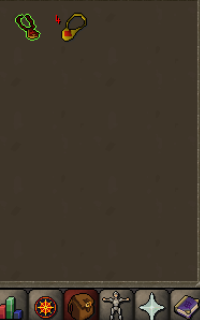
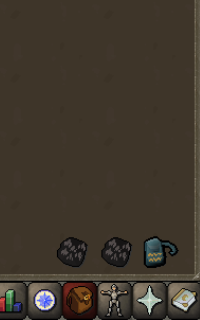
Add logout + new find_and_click function

Changed region(s): [[0.0, 0.0, 1.0, 1.0], [0.27, 0.0312, 0.45, 0.1562], [0.06, 0.0312, 0.21, 0.125]]

diff --git a/functions.py b/functions.py
@@ -156,7 +156,7 @@ def safe_open(image, png):
         image = cv2.imread('images/' + png)
         print(f'Sleeping until image is created')
         time.sleep(2)
-        return image
+    return image
 
 def screen_front(runelite):
     print('Starting screen_front')
@@ -486,15 +486,15 @@ def make_enabled(make='make_craft.png'):
     return Image_count(make, threshold=0.95)
 
 
-def image_Rec_clicker(image, event, iheight=5, iwidth=2, threshold=0.8, clicker='left', ispace=25, playarea=True,
+def image_Rec_clicker(image, object, iheight=5, iwidth=2, threshold=0.8, clicker='left', ispace=25, playarea=True,
                       fast=False):
     print('Starting image_Rec_clicker')
     global icoord
     global iflag
     # Update images, convert to gray, match template, apply threshold
-    img_rgb = cv2.imread('images/inventshot.png')
+    img_rgb = cv2.imread('images/' + image)
     img_gray = cv2.cvtColor(img_rgb, cv2.COLOR_BGR2GRAY)
-    template = cv2.imread('images/' + image, 0)
+    template = cv2.imread('images/' + object, 0)
     w, h = template.shape[::-1]
     pt = None
     res = cv2.matchTemplate(img_gray, template, cv2.TM_CCOEFF_NORMED)
@@ -519,8 +519,8 @@ def image_Rec_clicker(image, event, iheight=5, iwidth=2, threshold=0.8, clicker=
             cropy = 457
             iflag = True
             # i vars are constants todo add double randomness
-            x = random.randrange(iwidth, iwidth + ispace) + cropx
-            y = random.randrange(iheight, iheight + ispace) + cropy
+            x = random.randrange(iwidth, iwidth + ispace) # + cropx
+            y = random.randrange(iheight, iheight + ispace) # + cropy
             icoord = pt[0] + iheight + x
             icoord = (icoord, pt[1] + iwidth + y)
             b = super_random_breaks(.03, .12, .14, .25)
@@ -670,6 +670,7 @@ def image_count(object, image, threshold=0.7):  # counts how many objects in ima
     img_gray = cv2.cvtColor(img_rgb, cv2.COLOR_BGR2GRAY)
     template = cv2.imread('images/' + object, 0)
     safe_open(template, object)
+    print(f'template is {template}')
     w, h = template.shape[::-1]
     res = cv2.matchTemplate(img_gray, template, cv2.TM_CCOEFF_NORMED)
     # print(f'res is {res}')
@@ -719,6 +720,58 @@ def super_random_breaks(a, b, c, d):
     max1 = random.uniform(c, d) # e.g. 5-7
     wait = random.uniform(min1, max1) # e.g 2, 6
     return wait
+
+def find_and_click(image='screenshot.png', object='item.png', x1=0, x2=900, y1=0, y2=900,
+                   iheight=4, iwidth=4, threshold=0.8, clicker='left', ispace=10, num_objects = 1):
+    counter = 0
+    screen_Image(left=x1, right=x2, top=y1, bottom=y2, name=image)
+    print('Starting image_Rec_clicker')
+    global icoord
+    global iflag
+    # Update images, convert to gray, match template, apply threshold
+    img_rgb = cv2.imread('images/' + image)
+    img_gray = cv2.cvtColor(img_rgb, cv2.COLOR_BGR2GRAY)
+    template = cv2.imread('images/' + object, 0)
+    w, h = template.shape[::-1]
+    pt = None
+    res = cv2.matchTemplate(img_gray, template, cv2.TM_CCOEFF_NORMED)
+    loc = np.where(res >= threshold)
+    # print(f'res is: {res}')
+    iflag = False
+
+    # for image where template match % > threshold
+    for pt in zip(*loc[::-1]):
+        # print('Starting our for loop in zip now!')
+        # print(f'Current pt is {pt}')
+        # resizeImage()  # update screenresize/text images
+        # invent_crop()  # update inventory.png
+        # confirm how below draws rectangles
+        cv2.rectangle(img_rgb, pt, (pt[0] + w, pt[1] + h), (0, 0, 255), 2)
+        if pt is None:
+            iflag = False
+            print('pt is None so iflag is False')
+        else:
+            # useless?
+            cropx = 620
+            cropy = 457
+            iflag = True
+            # i vars are constants
+            x = random.randrange(iwidth, iwidth + ispace)  # + cropx
+            y = random.randrange(iheight, iheight + ispace)  # + cropy
+            icoord = pt[0] + x
+            icoord = (icoord, pt[1] + y ) # + y in the ()
+            b = super_random_breaks(.03, .12, .14, .25)
+            print('Trying to move to coord in rec_clicker!')
+            pyautogui.moveTo(icoord, duration=b)
+            b = super_random_breaks(.03, .12, .14, .25)
+            print('Trying to click coord!')
+            pyautogui.click(icoord, duration=b, button=clicker)
+            counter += 1
+            if counter >= num_objects:
+                return
+    print('Ending image_Rec_clicker')
+    return iflag
+
 
 
 

diff --git a/magic.py b/magic.py
@@ -221,10 +221,15 @@ def high_alch_loop(vol=1200, expensive=False, charge=False):
 
 
 if __name__ == "__main__":
-    log = login.login('alt3login',house_tab=True)
-    if log:
-        high_alch_loop(6000, expensive=False, charge=False)
-    else:
-        print('Failed to login')
-        pass
+    while True:
+        log = login.login('alt3login',house_tab=True)
+        if log:
+            high_alch_loop(6000, expensive=False, charge=False)
+        else:
+            print('Failed to login')
+            pass
+        sleep_mins = 60
+        s_to_m = sleep_mins * 60
+        # time.sleep(random.uniform(s_to_m, s_to_m + 3600))
+        time.sleep(10)
     # superheat_items(100, 1) #100 items iron

diff --git a/login.py b/login.py
@@ -46,5 +46,10 @@ def login(account:str,house_tab=False):
 
     print(count)
 
+def logout():
+    f.find_and_click('logout.png', 'logout_x.png')
+    f.find_and_click('logout.png', 'red_logout.png')
+
 if __name__ == "__main__":
-    login('alt2login')
+    # login('alt2login')
+    logout()
